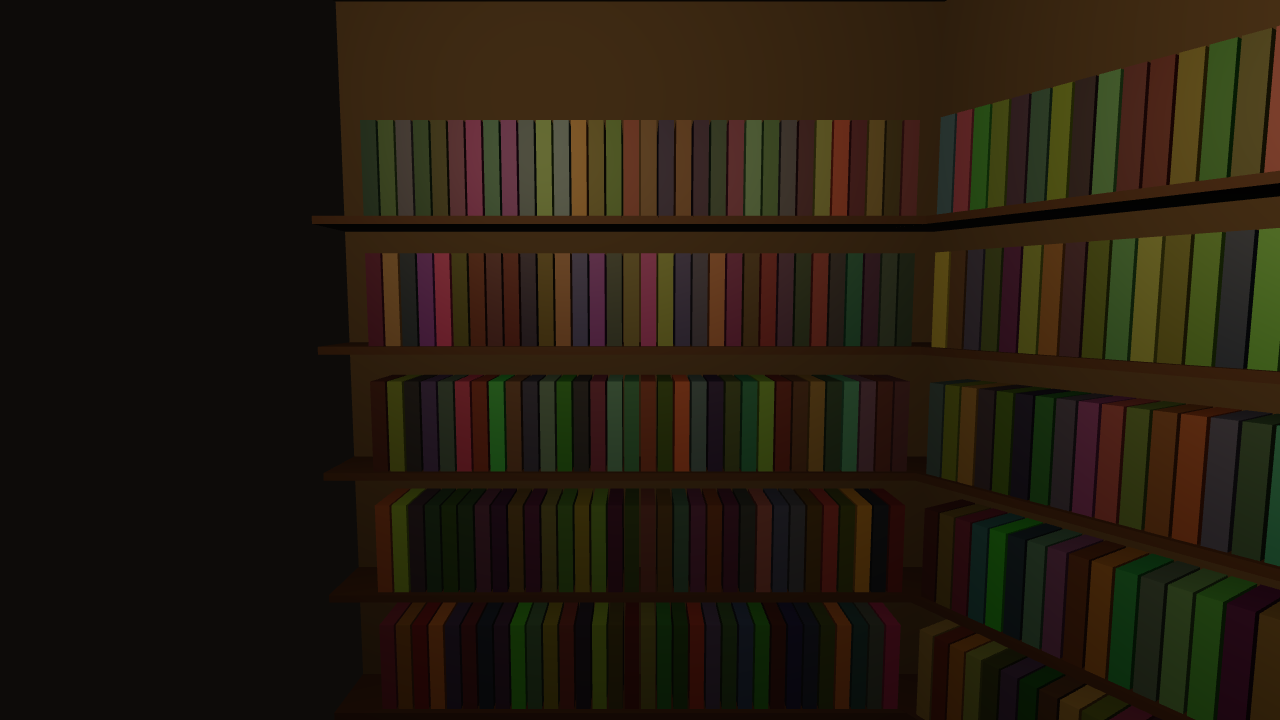
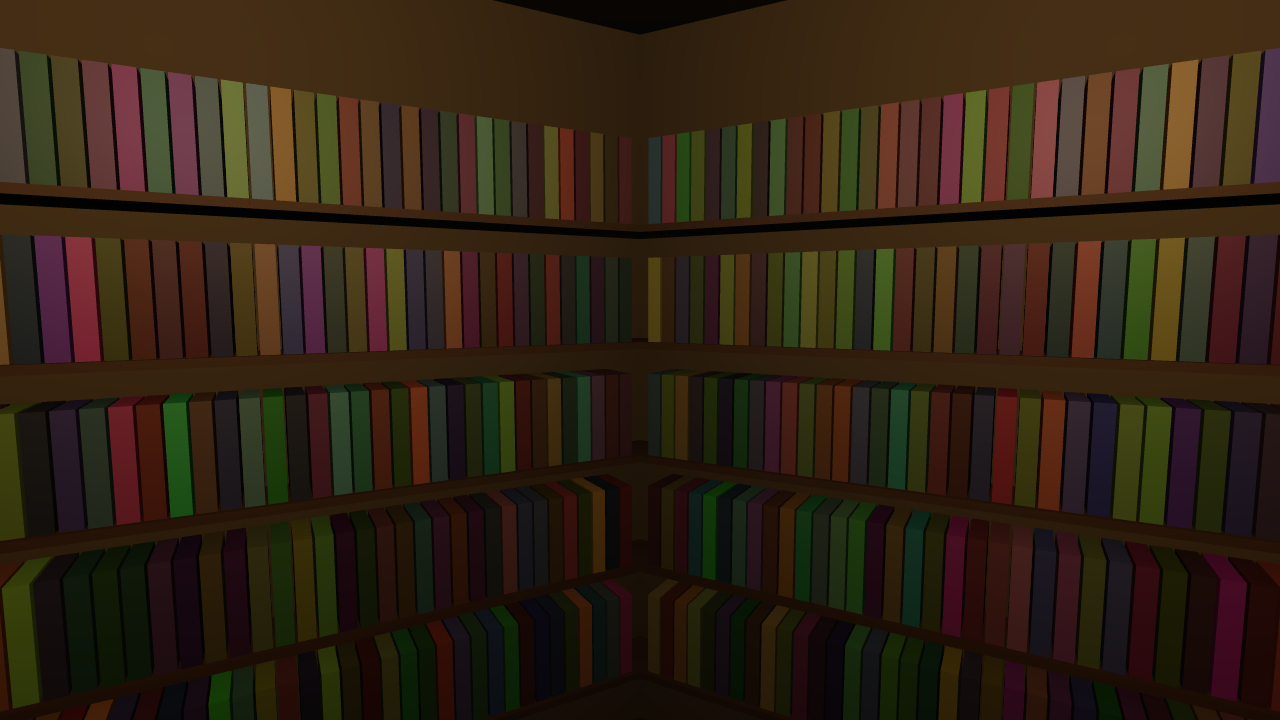
fix(engine): open the room on a corner instead of a doorway (#51)
The opening frame was not underlit, it was a quarter empty. A wall
subtends 60 degrees of the hexagon and a 58 degree field reaches 89
degrees sideways at 16:9, so a camera square on to wall 0 saw past the
wall's edge and out through the doorway next to it. Nothing is built
beyond a doorway yet, so what filled the left 26.6% of the frame was
scene.background.

Turning ROOM_BEARING 30 degrees onto the corner that walls 0 and 1
share puts a shelved wall under each half of the frame and both
doorways behind the camera. Measured at 1280x720: mean luminance 28.31
to 36.45, pixels below 16 of 255 from 39.6% to 17.3%, and no near-black
column anywhere. Radial, height, pitch, field of view, the two lamps
and the renderer are all untouched, and the frame costs exactly what it
cost before.

The levers this rejects are the ones that cannot reach the problem.
scene.background is the clear colour: tone mapping does not touch it
and an AmbientLight does not light it, because it is not geometry.
Measured over the void columns against the rest of the frame, the void
sits at 11.28 under exposure 1.15, 1.6 and 2.2 and under ambient 0.35,
0.9 and 1.8, to the hundredth, while exposure 2.2 lifts the room from
34.83 to 56.47. Raising exposure makes the hole more conspicuous, and
five times the ambient fill buys the lit part 10% while flattening the
lamp falloff that lighting.ts exists to produce.

Three new guards in the pose tests, each watched red before it was
[…]

diff --git a/src/engine/__tests__/poses.test.ts b/src/engine/__tests__/poses.test.ts
@@ -2,18 +2,23 @@ import { describe, expect, it } from 'vitest';
 import { BOOKS_PER_SHELF, SHELVES_PER_WALL, WALLS_PER_ROOM } from '@core/address';
 import { CAMERA_FOV } from '@engine/camera';
 import {
+  DOORWAY_SIDES,
+  ROOM_CIRCUMRADIUS,
   ROOM_HEIGHT,
   ROOM_INRADIUS,
   ROOM_WALL_WIDTH,
   SHELF_BASE_HEIGHT,
   SHELF_PITCH,
+  SHELF_SIDES,
   SPINE_DEPTH,
   SPINE_HEIGHT,
   SPINE_WALL_CLEARANCE,
 } from '@engine/constants';
 import {
+  HEXAGON_SIDES,
   nearestBearing,
   shelfSurfaceHeight,
+  sideBearing,
   volumeLateralOffset,
   wallBearing,
 } from '@engine/layout';
@@ -58,26 +63,83 @@ const AT_BOOK: NavigationState = {
 /** The face of a volume that looks into the room: the nearest thing to the camera. */
 const SPINE_FACE_RADIAL = ROOM_INRADIUS - SPINE_WALL_CLEARANCE - SPINE_DEPTH;
 
+/**
+ * The widest frame the opening vantage is claimed to hold the doorways out
+ * of. A `CAMERA_FOV` frame reaches sideways in proportion to the aspect
+ * ratio, so the claim is only as good as the shape of the window it is made
+ * about: 16:9 is the shape the screenshot in the README is taken at and the
+ * widest a monitor is usually sold in.
+ */
+const WIDEST_FRAMED_ASPECT = 16 / 9;
+
 /** Half the vertical angle of the frame, for a framing check. */
 function halfFrameAngle(fov: number): number {
   return (fov / 2) * (Math.PI / 180);
 }
 
+/** A pose, as much of one as the framing helpers below need. */
+type Framing = { radial: number; height: number; pitch: number; fov: number };
+
 /**
- * What a pose can see, vertically, where the wall it faces stands. The pitch
- * moves the middle of the frame up or down the wall; only the room's own
- * vantage has any.
+ * What a pose can see, vertically, `distance` ahead of it. The pitch moves the
+ * middle of the frame up or down; only the room's own vantage has any.
  */
-function verticalReachAtWall(pose: {
-  radial: number;
-  height: number;
-  pitch: number;
-  fov: number;
-}): { bottom: number; top: number } {
-  const distance = ROOM_INRADIUS - pose.radial;
+function verticalReachAt(
+  pose: Framing,
+  distance: number
+): { bottom: number; top: number } {
   const centre = pose.height + distance * Math.tan(pose.pitch);
   const half = distance * Math.tan(halfFrameAngle(pose.fov));
   return { bottom: centre - half, top: centre + half };
+}
+
+/** What a pose can see where the wall it faces square on stands. */
+function verticalReachAtWall(pose: Framing): { bottom: number; top: number } {
+  return verticalReachAt(pose, ROOM_INRADIUS - pose.radial);
+}
+
+/**
+ * Half the horizontal angle of a frame: the vertical field widened by the
+ * aspect ratio, which is how much of the room is either side of the axis.
+ */
+function halfHorizontalAngle(fov: number, aspect: number): number {
+  return Math.atan(Math.tan(halfFrameAngle(fov)) * aspect);
+}
+
+/** Where the camera of `pose` stands, in the plan, as `[x, z]`. */
+function groundPosition(pose: {
+  bearing: number;
+  radial: number;
+}): readonly [number, number] {
+  return [Math.cos(pose.bearing) * pose.radial, Math.sin(pose.bearing) * pose.radial];
+}
+
+/**
+ * How far off the view axis a point on the floor lies, in radians, however far
+ * away it is. A point behind the camera comes back past a right angle, which
+ * is what makes this a usable test of "out of frame".
+ */
+function offAxisAngle(
+  pose: { bearing: number; radial: number },
+  point: readonly [number, number]
+): number {
+  const [cameraX, cameraZ] = groundPosition(pose);
+  const x = point[0] - cameraX;
+  const z = point[1] - cameraZ;
+  const along = x * Math.cos(pose.bearing) + z * Math.sin(pose.bearing);
+  const across = -x * Math.sin(pose.bearing) + z * Math.cos(pose.bearing);
+  return Math.abs(Math.atan2(across, along));
+}
+
+/** The two corners of hexagon side `side`, in the plan. */
+function sideCorners(side: number): readonly (readonly [number, number])[] {
+  return [-1, 1].map((end) => {
+    const bearing = sideBearing(side) + (end * Math.PI) / HEXAGON_SIDES;
+    return [
+      Math.cos(bearing) * ROOM_CIRCUMRADIUS,
+      Math.sin(bearing) * ROOM_CIRCUMRADIUS,
+    ] as const;
+  });
 }
 
 const EVERY_VOLUME: readonly { wall: number; shelf: number; volume: number }[] =
@@ -93,8 +155,10 @@ const EVERY_VOLUME: readonly { wall: number; shelf: number; volume: number }[] =
   );
 
 describe('the room’s vantage', () => {
-  it('faces the first shelved wall from the far side of the room', () => {
-    expect(ROOM_POSE.bearing).toBe(wallBearing(0));
+  it('faces the corner the first two shelved walls share, from the far side', () => {
+    // Halfway between the two wall bearings, derived here rather than copied
+    // from the module: a corner is the midpoint of the sides that meet at it.
+    expect(ROOM_POSE.bearing).toBeCloseTo((wallBearing(0) + wallBearing(1)) / 2, 12);
     expect(ROOM_POSE.radial).toBeLessThan(0);
     expect(ROOM_POSE.pitch).toBeLessThan(0);
     expect(ROOM_POSE.fov).toBe(CAMERA_FOV);
@@ -102,11 +166,39 @@ describe('the room’s vantage', () => {
     expect(ROOM_STOP.label).toBe('room');
   });
 
-  it('sees every shelf of that wall, and the ceiling above them', () => {
-    const reach = verticalReachAtWall(ROOM_POSE);
+  it('sees that corner from the floor to the ceiling', () => {
+    const reach = verticalReachAt(ROOM_POSE, ROOM_CIRCUMRADIUS - ROOM_POSE.radial);
 
     expect(reach.bottom).toBeLessThan(SHELF_BASE_HEIGHT);
     expect(reach.top).toBeGreaterThan(ROOM_HEIGHT);
+  });
+
+  it('holds both doorways out of the frame, which is what stops it opening on a hole', () => {
+    // The whole of issue #46: through a doorway is the background colour and
+    // not a corridor, so a doorway in the opening frame is a quarter of the
+    // first impression spent on nothing. A doorway is out of frame when both
+    // of its corners are further off the view axis than the frame reaches.
+    const reach = halfHorizontalAngle(ROOM_POSE.fov, WIDEST_FRAMED_ASPECT);
+
+    for (const side of DOORWAY_SIDES) {
+      for (const corner of sideCorners(side)) {
+        expect(offAxisAngle(ROOM_POSE, corner)).toBeGreaterThan(reach);
+      }
+    }
+  });
+
+  it('puts a shelved wall under each half of the frame', () => {
+    // The other half of the claim: not merely no doorway, but books on both
+    // sides. The corner itself is dead ahead, so each wall beside it covers
+    // its own half out to an edge of the frame.
+    const reach = halfHorizontalAngle(ROOM_POSE.fov, WIDEST_FRAMED_ASPECT);
+
+    for (const side of SHELF_SIDES.slice(0, 2)) {
+      const far = sideCorners(side).map((corner) => offAxisAngle(ROOM_POSE, corner));
+
+      expect(Math.min(...far)).toBeLessThan(reach);
+      expect(Math.max(...far)).toBeGreaterThan(reach);
+    }
   });
 });
 

diff --git a/src/engine/poses.ts b/src/engine/poses.ts
@@ -5,6 +5,7 @@ import type { NavigationLevel, NavigationState } from '@state/navigation';
 import { CAMERA_FOV } from './camera';
 import { SHELF_BOARD_THICKNESS, ROOM_INRADIUS, SPINE_HEIGHT } from './constants';
 import {
+  HEXAGON_SIDES,
   nearestBearing,
   shelfCentreHeight,
   shelfSurfaceHeight,
@@ -47,27 +48,49 @@ function standoffFraming(halfHeight: number, margin: number): number {
   return (halfHeight * margin) / Math.tan(HALF_FOV);
 }
 
-/**
- * Where the room level looks: hexagon side 1 is the first shelved wall
- * (`./constants.ts`), and a turn starting at a doorway would open on the dark
- * of a corridor with no neighbouring room in it yet.
- */
-const ROOM_BEARING = wallBearing(0);
+/** A side's bearing to either corner beside it: half the angle between sides. */
+const HALF_SIDE_ANGLE = Math.PI / HEXAGON_SIDES;
 
 /**
- * How far the room level stands from the middle of the room — *away* from the
- * wall it looks at, not towards it. Standing on the near side puts the camera
- * 1.1 m from a 2.4 m wall and crops it to a shelf and a half; from the far
- * side the frame holds all five shelves and the ceiling above them, with only
- * the nearest strip of floor out of view. The figure is M4's, and this is the
- * vantage M4's opening shot turned on the spot through.
+ * Where the room level looks: the corner the first two shelved walls share.
+ *
+ * Not at the middle of a wall, which is where this used to point. A wall
+ * subtends 60 degrees of the room and a `CAMERA_FOV` frame is 89 degrees wide
+ * at 16:9, so a camera square on to one wall sees past its edge and out
+ * through the doorway beside it, and what is through a doorway is the
+ * background colour: no corridor is built yet, and a quarter of the opening
+ * frame was that hole rather than a room (issue #46). Looking at the corner
+ * instead puts a shelved wall under each half of the frame and both doorways
+ * behind the camera's shoulders, which is also the only view that shows the
+ * room turning rather than one flat wall of books.
+ *
+ * It is the right place to turn from, too: every wall is then within 150
+ * degrees of where a flight starts, where facing wall 0 left the wall
+ * opposite a half turn away.
+ */
+const ROOM_BEARING = wallBearing(0) + HALF_SIDE_ANGLE;
+
+/**
+ * How far the room level stands from the middle of the room, *away* from the
+ * corner it looks at rather than towards it. That puts the camera 2.25 m from
+ * the corner, where a `CAMERA_FOV` frame reaches from 0.07 m to 2.56 m: the
+ * corner's whole height, shelf run and ceiling together, with only the
+ * nearest strip of floor out of view. The walls stand nearer than the corner
+ * does, so towards the edges of the frame the lowest shelf runs off the
+ * bottom; standing on the near side would crop every wall that way.
+ *
+ * It is also what keeps the doorways out of the frame, and the direction is
+ * the one nobody guesses: backing *further* off swings them back into view,
+ * because the camera retreats towards them while the corner stays put. The
+ * figure is M4's, and this is the vantage M4's opening shot turned on the
+ * spot through.
  */
 const ROOM_RADIAL = -0.45;
 
 /** Eye height of someone standing in the gallery. M4's figure. */
 const ROOM_HEIGHT_OF_EYE = 1.52;
 
-/** Where the room level looks, as a multiple of the inradius: past the wall rather than at it. */
+/** Where the room level looks, as a multiple of the inradius: past the corner, not at it. */
 const ROOM_FOCUS_REACH = 1.25;
 
 /** Slightly below eye level, which puts the middle shelves in the frame. M4's figure. */
